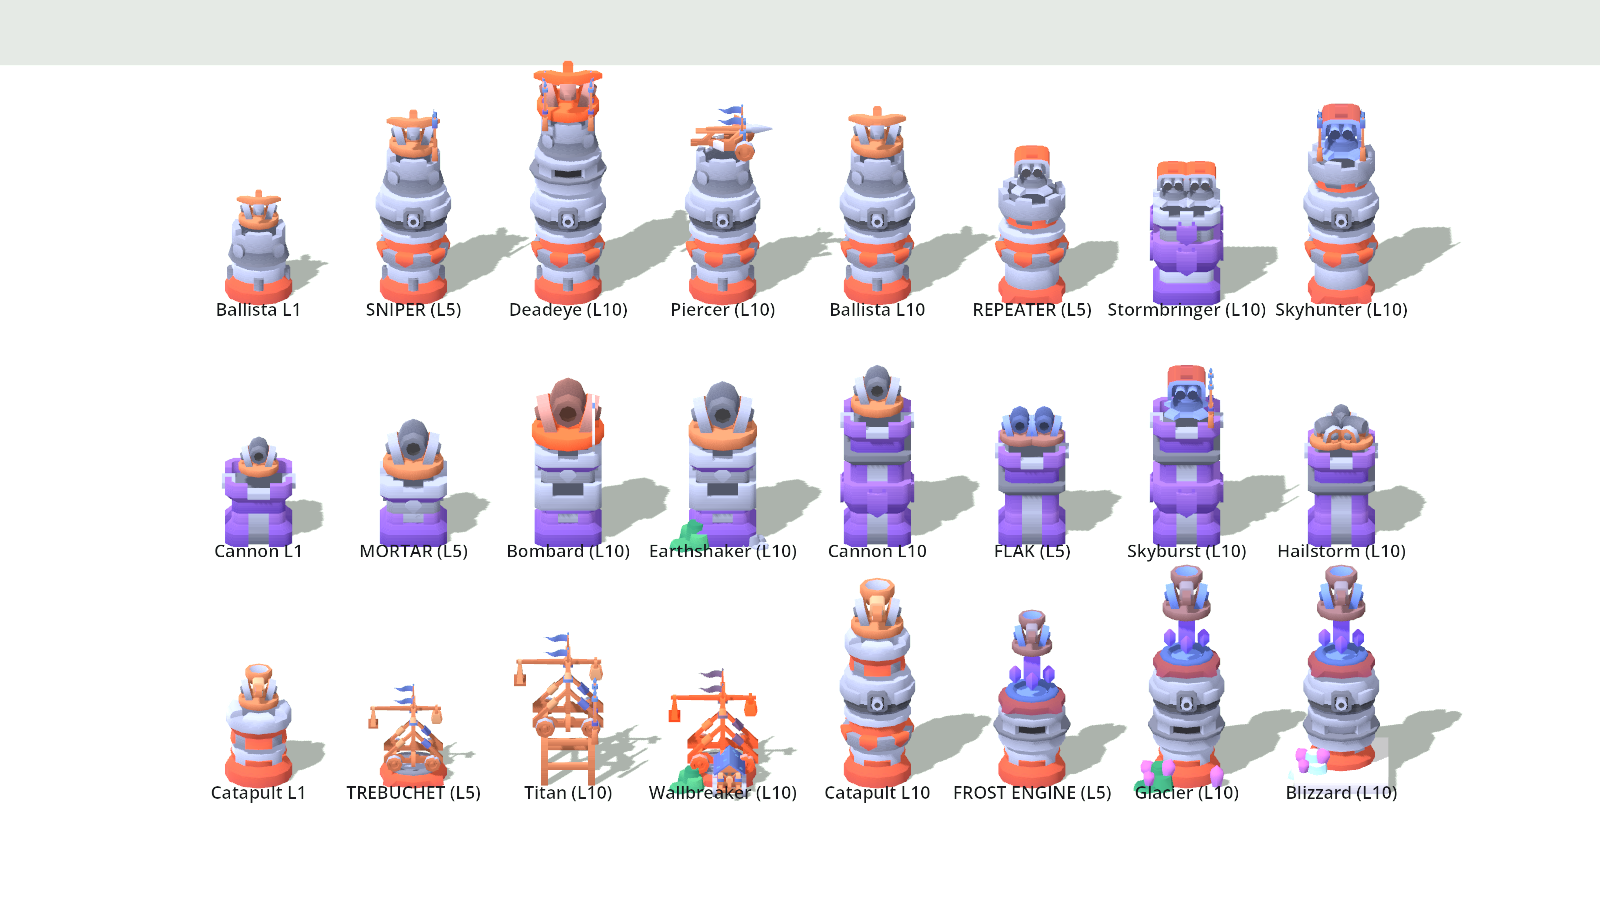
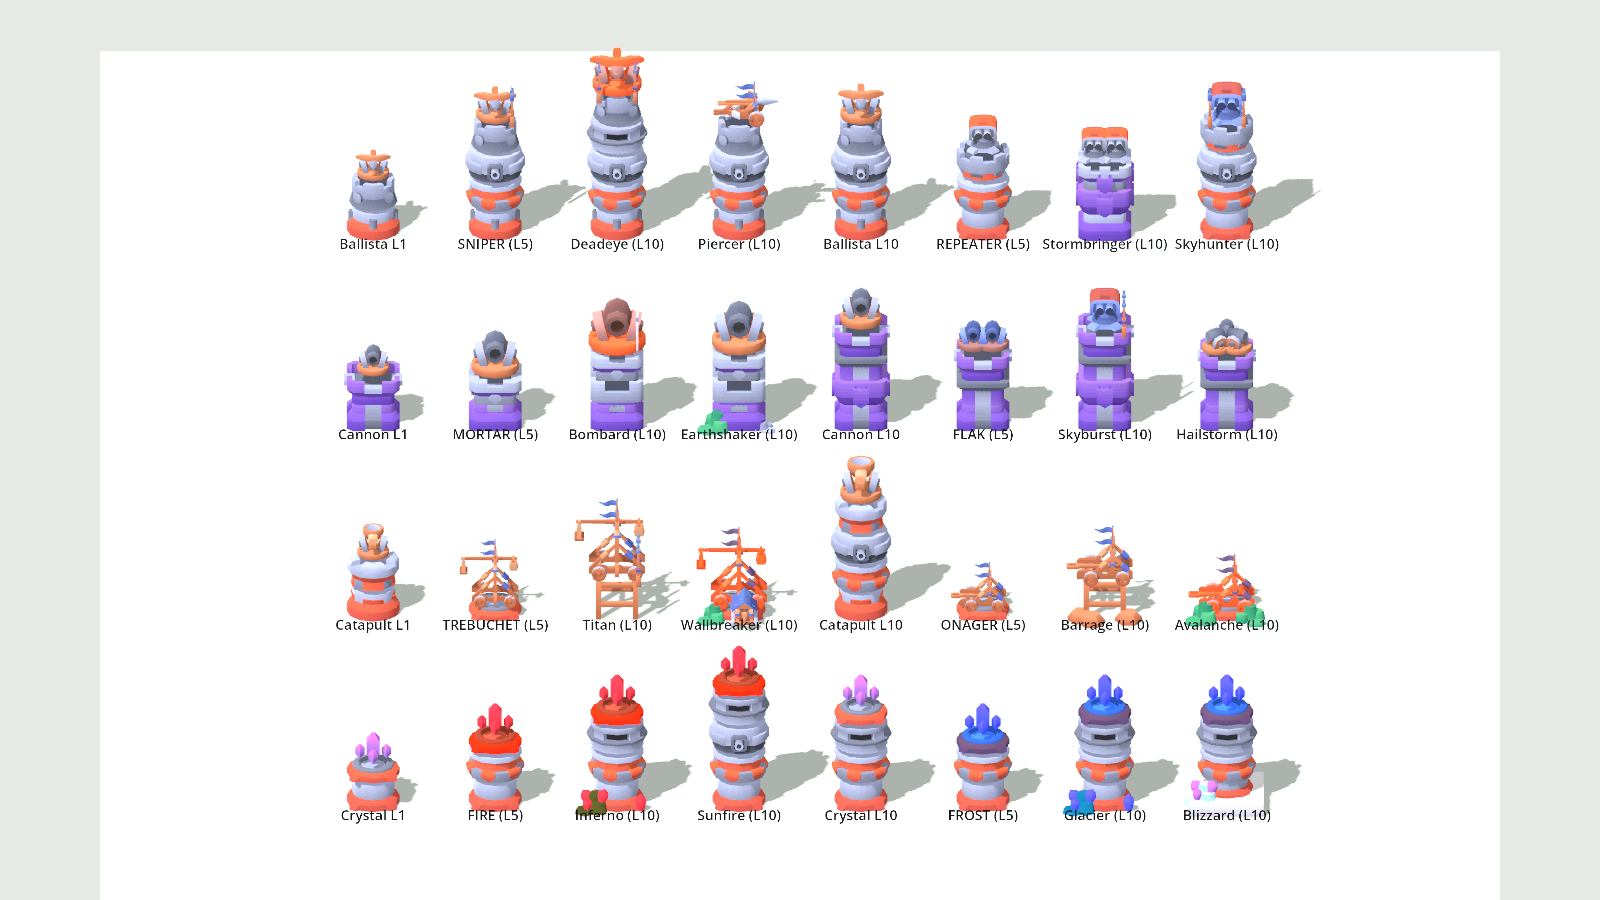
docs(design): add Crystal Tower and Onager, reshuffle upgrades
The Crystal Tower takes the elemental role (Fire or Frost attunement at level 5), so the Catapult's second branch becomes Onager (Barrage / Avalanche). Incendiary moves to the Crystal Tower, the Cannon gains Heavy Shells, and the Crystal adds Attunement. The preview sheet now shows all four towers.

diff --git a/scripts/Dev/BranchSheet.cs b/scripts/Dev/BranchSheet.cs
@@ -5,10 +5,10 @@ using static TowerDefense.Dev.SheetRenderer;
 namespace TowerDefense.Dev;
 
 // Proposed looks for the tower milestone branches: level 5 picks a branch, level 10 a sub-branch.
-// Rows per tower: [today's L1 | branch A (L5) | A1 (L10) | A2 (L10)] then [today's L10 | branch B | B1 | B2].
+// One row per tower: today's L1 | branch A (L5) | A1 | A2 (L10) | today's L10 | branch B (L5) | B1 | B2 (L10).
 public static class BranchSheet
 {
-	static readonly Color Frost = new(0.7f, 0.85f, 1.25f);
+	static readonly Color Frost = new(0.45f, 0.8f, 1.45f);
 	static readonly Color Sky = new(0.8f, 0.9f, 1.2f);
 	static readonly Color Ember = new(1.25f, 0.85f, 0.7f);
 
@@ -17,6 +17,8 @@ public static class BranchSheet
 	static Part Castle(string m, PartMode mode = PartMode.Top, float scale = 1, Vector3 offset = default, float rot = 0, Color? tint = null) =>
 		new("castle", m, mode, offset, rot, scale, tint);
 	static Entry E(string caption, string sub, params Part[] parts) => new(caption, new List<Part>(parts), sub);
+
+	static readonly Color Fire = new(1.35f, 0.55f, 0.35f);
 
 	public static List<Entry> Entries() => new()
 	{
@@ -87,15 +89,35 @@ public static class BranchSheet
 		E("Catapult L10", "today",
 			Td("tower-round-bottom-c"), Td("tower-round-middle-a"), Td("tower-round-middle-b"), Td("tower-round-top-c"),
 			Td("weapon-catapult", PartMode.Top, 1.3f)),
-		E("FROST ENGINE (L5)", "splash slow, hits air",
-			Td("tower-round-bottom-c"), Td("tower-round-middle-c"), Td("tower-round-crystals", tint: Frost), Td("weapon-catapult", PartMode.Top, 1f, tint: Frost)),
-		E("Glacier (L10)", "freezes packs",
-			Td("tower-round-bottom-c"), Td("tower-round-middle-c"), Td("tower-round-middle-b"), Td("tower-round-crystals", tint: Frost),
-			Td("weapon-catapult", PartMode.Top, 1.2f, tint: Frost),
-			Td("detail-crystal-large", PartMode.Free, 0.8f, new Vector3(-0.45f, 0, 0.35f)), Td("detail-crystal", PartMode.Free, 0.8f, new Vector3(0.45f, 0, 0.4f))),
-		E("Blizzard (L10)", "slow aura in range",
-			Td("snow-tile", PartMode.Free, 1.4f), Td("tower-round-bottom-c", PartMode.Stack, 1f, new Vector3(0, 0.2f, 0)), Td("tower-round-middle-c"), Td("tower-round-middle-b"),
-			Td("tower-round-crystals", tint: Frost), Td("weapon-catapult", PartMode.Top, 1.2f, tint: Frost),
-			Td("snow-detail-crystal-large", PartMode.Free, 0.8f, new Vector3(-0.45f, 0.2f, 0.35f))),
+		E("ONAGER (L5)", "3-boulder barrage",
+			Td("tower-round-base"), Castle("siege-catapult", PartMode.Top, 0.6f)),
+		E("Barrage (L10)", "5 boulders per volley",
+			Td("wood-structure-high", PartMode.Stack, 0.8f), Castle("siege-catapult", PartMode.Top, 0.72f),
+			Td("weapon-ammo-boulder", PartMode.Free, 1.6f, new Vector3(-0.45f, 0, 0.4f)), Td("weapon-ammo-boulder", PartMode.Free, 1.6f, new Vector3(-0.25f, 0, 0.55f)),
+			Td("weapon-ammo-boulder", PartMode.Free, 1.6f, new Vector3(0.45f, 0, 0.45f))),
+		E("Avalanche (L10)", "boulders roll along path",
+			Td("tower-round-base"), Castle("siege-catapult", PartMode.Top, 0.72f, tint: Ember),
+			Td("detail-rocks-large", PartMode.Free, 0.8f, new Vector3(-0.45f, 0, 0.4f)), Td("detail-rocks-large", PartMode.Free, 0.7f, new Vector3(0.45f, 0, 0.45f), 90)),
+
+		// ------------------------------------------------------------------ CRYSTAL (round b + crystal top) — Fire / Frost
+		E("Crystal L1", "magic bolt",
+			Td("tower-round-bottom-b"), Td("tower-round-crystals")),
+		E("FIRE (L5)", "burn, stops regen",
+			Td("tower-round-bottom-b"), Td("tower-round-middle-a"), Td("tower-round-crystals", tint: Fire)),
+		E("Inferno (L10)", "burn spreads on death",
+			Td("tower-round-bottom-b"), Td("tower-round-middle-a"), Td("tower-round-middle-c"), Td("tower-round-crystals", tint: Fire),
+			Td("detail-crystal-large", PartMode.Free, 0.8f, new Vector3(-0.45f, 0, 0.35f), tint: Fire), Td("detail-crystal", PartMode.Free, 0.8f, new Vector3(0.45f, 0, 0.4f), tint: Fire)),
+		E("Sunfire (L10)", "beam ramps on one target",
+			Td("tower-round-bottom-b"), Td("tower-round-middle-a"), Td("tower-round-middle-b"), Td("tower-round-middle-c"), Td("tower-round-crystals", tint: Fire)),
+		E("Crystal L10", "unattuned, for scale",
+			Td("tower-round-bottom-b"), Td("tower-round-middle-a"), Td("tower-round-middle-c"), Td("tower-round-crystals")),
+		E("FROST (L5)", "slow, hits air",
+			Td("tower-round-bottom-b"), Td("tower-round-middle-a"), Td("tower-round-crystals", tint: Frost)),
+		E("Glacier (L10)", "every 3rd hit freezes",
+			Td("tower-round-bottom-b"), Td("tower-round-middle-a"), Td("tower-round-middle-c"), Td("tower-round-crystals", tint: Frost),
+			Td("detail-crystal-large", PartMode.Free, 0.8f, new Vector3(-0.45f, 0, 0.35f), tint: Frost), Td("detail-crystal", PartMode.Free, 0.8f, new Vector3(0.45f, 0, 0.4f), tint: Frost)),
+		E("Blizzard (L10)", "slow aura, chilled +10%",
+			Td("snow-tile", PartMode.Free, 1.4f), Td("tower-round-bottom-b", PartMode.Stack, 1f, new Vector3(0, 0.2f, 0)), Td("tower-round-middle-a"), Td("tower-round-middle-c"),
+			Td("tower-round-crystals", tint: Frost), Td("snow-detail-crystal-large", PartMode.Free, 0.8f, new Vector3(-0.45f, 0.2f, 0.35f))),
 	};
 }

diff --git a/scripts/Dev/SheetRenderer.cs b/scripts/Dev/SheetRenderer.cs
@@ -61,7 +61,7 @@ public partial class SheetRenderer : Node3D
 		int rows = (entries.Count + cols - 1) / cols;
 		var center = new Vector3((cols - 1) * Spacing / 2, branches ? 1.5f : 0.6f, (rows - 1) * rowSpacing / 2 + 0.3f);
 		float pitchRad = Mathf.DegToRad(pitch);
-		var cam = new Camera3D { Projection = Camera3D.ProjectionType.Orthogonal, Size = branches ? (rows - 1) * rowSpacing * Mathf.Sin(pitchRad) + 6.2f : rows * Spacing * 1.25f + 1.2f, Far = 200 };
+		var cam = new Camera3D { Projection = Camera3D.ProjectionType.Orthogonal, Size = branches ? Mathf.Max((rows - 1) * rowSpacing * Mathf.Sin(pitchRad) + 6.2f, cols * Spacing / 1.75f + 0.6f) : rows * Spacing * 1.25f + 1.2f, Far = 200 };
 		AddChild(cam);
 		cam.Position = center + new Vector3(0, Mathf.Sin(pitchRad), Mathf.Cos(pitchRad)) * 40;
 		cam.LookAt(center);

diff --git a/docs/tower-branches.md b/docs/tower-branches.md
@@ -1,49 +1,87 @@
-# Tower branches (design proposal)
+# Tower branches and the Crystal Tower (design)
 
 At the level 4 → 5 milestone you pick one of two **branches**; at 9 → 10 one of two **specialisations**
-within it. 3 towers × 2 × 2 = **12 end-forms**. The milestone's ×2 / ×3 damage and cost rules stay; branches
-reshape *how* the damage is dealt. Damage per gold stays roughly flat (±15%) — each form is stronger in
-its niche and weaker outside it, never simply better.
+within it. With a fourth tower that is 4 towers × 2 × 2 = **16 end-forms**. The milestone's ×2 / ×3 damage
+and cost rules stay; branches reshape *how* the damage is dealt. Damage per gold stays roughly flat (±15%):
+each form is stronger in its niche and weaker outside it, never simply better.
 
 ![Tower branch previews](tower-branches.png)
 
-Numbers are multipliers on the unbranched tower at the same level.
+Rows: Ballista, Cannon, Catapult, Crystal. Each row: today's L1 · branch A (L5) · A1 · A2 (L10) · today's L10 ·
+branch B (L5) · B1 · B2 (L10). Numbers below are multipliers on the unbranched tower at the same level.
 
-## Ballista — all-rounder
-| Form | Level | Look | Stats | Excels / Weak |
-|---|---|---|---|---|
-| **Sniper** | 5 | Tall round tower, pennant | Damage ×2, fire rate ×0.5, range +1.2, 20% crit for ×2 | Bosses, armour (big hits) / crowds |
-| ↳ **Deadeye** | 10 | Taller, ember ballista, twin flags | Crit 35% for ×3; executes non-boss creeps under 12% HP | Elites, bosses / swarms |
-| ↳ **Piercer** | 10 | Castle siege-ballista on top | Bolts pierce a line of 3 (100 / 70 / 50%) | Lines of ground creeps / flyers spread out |
-| **Repeater** | 5 | Turret on round tower | Fire rate ×3, damage ×0.4, range −0.2; Slowing/Splitting proc per hit | Flyers, fast creeps, slow uptime / armour (tiny hits) |
-| ↳ **Stormbringer** | 10 | Square tower, twin turrets | Fires at 2 targets at once | Waves of small creeps / armour |
-| ↳ **Skyhunter** | 10 | Blue turret, two pennants | ×2 vs flyers, +0.8 range vs flyers | Air themes / ground bosses |
+## Roles
+| Tower | Role | Hits air | Bonus |
+|---|---|---|---|
+| Ballista | All-rounder, anti-air | Yes | — |
+| Cannon | Crowds, armour | Yes | ×1.5 vs armoured |
+| Catapult | Bosses, tanks, siege | No (Scatter Shot) | ×1.75 vs bosses & tanks |
+| **Crystal** (new) | Elements: control or burn | Yes | Ignores half of armour |
 
-## Cannon — crowds and armour
-| Form | Level | Look | Stats | Excels / Weak |
-|---|---|---|---|---|
-| **Mortar** | 5 | Squat tower, oversized cannon | Splash ×1.6, damage ×1.5, fire rate ×0.6, range +0.8, **ground only** | Packs, armour / flyers |
-| ↳ **Bombard** | 10 | Ember cannon, banner | Shells leave burning ground for 2 s (25% of the hit per second) | Swarms, regen / fast creeps |
-| ↳ **Earthshaker** | 10 | Rubble around the base | Stuns 0.6 s (bosses: 30% slow instead), 4 s per-creep cooldown | Controlling packs / bosses |
-| **Flak** | 5 | Twin blue cannons | ×1.8 vs flyers, fire rate ×1.3, ground damage ×0.8 | Air waves / armoured ground |
-| ↳ **Skyburst** | 10 | Blue turret, wide flag | ×2.5 vs flyers, splash ×2 against air | Flying swarms / ground |
-| ↳ **Hailstorm** | 10 | Three cannons | 3 shells per volley at 3 targets (60% each) | Mixed waves / lone bosses |
+## Ballista
+| Form | Level | Stats | Excels / Weak |
+|---|---|---|---|
+| **Sniper** | 5 | Damage ×2, fire rate ×0.5, range +1.2, 20% crit for ×2 | Bosses, armour / crowds |
+| ↳ **Deadeye** | 10 | Crit 35% for ×3; executes non-boss creeps under 12% HP | Elites, bosses / swarms |
+| ↳ **Piercer** | 10 | Bolts pierce a line of 3 (100 / 70 / 50%) | Lines of ground creeps / spread-out flyers |
+| **Repeater** | 5 | Fire rate ×3, damage ×0.4, range −0.2; Slowing/Splitting proc per hit | Flyers, fast creeps / armour |
+| ↳ **Stormbringer** | 10 | Fires at 2 targets at once | Waves of small creeps / armour |
+| ↳ **Skyhunter** | 10 | ×2 vs flyers, +0.8 range vs flyers | Air themes / ground bosses |
 
-## Catapult — bosses and tanks
-| Form | Level | Look | Stats | Excels / Weak |
-|---|---|---|---|---|
-| **Trebuchet** | 5 | Castle trebuchet on a base | Siege bonus ×1.75 → ×2.5, range +1.5, fire rate ×0.8 | Bosses, tanks / flyers, fast |
-| ↳ **Titan** | 10 | Trebuchet on scaffolding, flag | +2% of target's max HP per hit vs bosses & tanks | Late bosses / everything small |
-| ↳ **Wallbreaker** | 10 | Ember trebuchet, ram, rubble | Hits shred 20% armour for 5 s (stacks to 60%) | Armoured waves, helps all towers / flyers |
-| **Frost Engine** | 5 | Blue crystal tower | Splash slows 25% for 2 s (bosses half), hits flyers at 60%, damage ×0.7, loses siege bonus | Control, air coverage / raw damage |
-| ↳ **Glacier** | 10 | Taller, crystals at the base | Every 3rd shot freezes 1 s (bosses: 40% slow) | Packs, fast creeps / bosses |
-| ↳ **Blizzard** | 10 | On snow, ice crystals | 20% slow aura in range + chilled creeps take +10% damage | Supporting other towers / alone |
+## Cannon
+| Form | Level | Stats | Excels / Weak |
+|---|---|---|---|
+| **Mortar** | 5 | Splash ×1.6, damage ×1.5, fire rate ×0.6, range +0.8, ground only | Packs, armour / flyers |
+| ↳ **Bombard** | 10 | Shells leave burning ground for 2 s (25% of the hit per second) | Swarms, regen / fast creeps |
+| ↳ **Earthshaker** | 10 | Stuns 0.6 s (bosses: 30% slow instead), 4 s per-creep cooldown | Controlling packs / bosses |
+| **Flak** | 5 | ×1.8 vs flyers, fire rate ×1.3, ground damage ×0.8 | Air waves / armoured ground |
+| ↳ **Skyburst** | 10 | ×2.5 vs flyers, splash ×2 against air | Flying swarms / ground |
+| ↳ **Hailstorm** | 10 | 3 shells per volley at 3 targets (60% each) | Mixed waves / lone bosses |
+
+## Catapult
+| Form | Level | Stats | Excels / Weak |
+|---|---|---|---|
+| **Trebuchet** | 5 | Siege bonus ×1.75 → ×2.5, range +1.5, fire rate ×0.8 | Bosses, tanks / flyers, fast |
+| ↳ **Titan** | 10 | +2% of the target's max HP per hit vs bosses & tanks | Late bosses / small creeps |
+| ↳ **Wallbreaker** | 10 | Hits shred 20% armour for 5 s (stacks to 60%) — helps every tower | Armoured waves / flyers |
+| **Onager** | 5 | 3 boulders per volley, spread along the path (45% each) | Packs on the ground / bosses |
+| ↳ **Barrage** | 10 | 5 boulders per volley | Swarms / flyers |
+| ↳ **Avalanche** | 10 | Boulders roll 2 tiles along the path after landing, hitting creeps behind | Long lines of creeps / sparse waves |
+
+## Crystal Tower (new, 1,500g)
+Magic bolts that ignore half of armour and hit flyers, medium range, moderate damage. The level-5 choice
+**attunes** it to an element; the crystal glows red or ice-blue.
+
+| Form | Level | Stats | Excels / Weak |
+|---|---|---|---|
+| **Fire** | 5 | Hits burn for 40% of the hit per second (3 s); burning stops regeneration | Regen, swarms, armour / fast creeps |
+| ↳ **Inferno** | 10 | When a burning creep dies, the fire spreads to creeps within 1.2 tiles | Dense waves / lone bosses |
+| ↳ **Sunfire** | 10 | Focused beam: damage ramps +50% per second on the same target, up to ×3 | Bosses / swarms |
+| **Frost** | 5 | Hits slow 30% for 2 s (bosses half) | Fast creeps, flyers, supporting / raw damage |
+| ↳ **Glacier** | 10 | Every 3rd hit freezes 1 s (bosses: 40% slow instead) | Packs, fast creeps / bosses |
+| ↳ **Blizzard** | 10 | 20% slow aura in range; chilled creeps take +10% damage from everything | Supporting other towers / alone |
+
+## Upgrades menu: two per tower
+| Tower | Upgrades |
+|---|---|
+| Ballista | Slowing Bolts · Splitting Bolts |
+| Cannon | Shrapnel · **Heavy Shells** (new: armour bonus ×1.5 → ×1.75 / 2.0 / 2.25) |
+| Catapult | Heavy Boulders · Scatter Shot |
+| Crystal | **Incendiary** (moved from the Cannon: crystal hits burn) · **Attunement** (new: +20 / 40 / 60% element strength) |
+| Economy | War Chest |
+
+Slowing Bolts stays on the Ballista: a single-target slow is different from Frost's area control.
 
 ## How it plays
-- Upgrading 4 → 5 or 9 → 10 opens a **choice** with both forms' previews and stats; the tower rebuilds into the chosen look.
+- Upgrading 4 → 5 or 9 → 10 on a branching tower offers both forms side by side with stats; the tower rebuilds into the chosen look.
 - The choice is permanent for that tower (sell to change). Research still applies (e.g. Slowing on a Repeater).
-- The AI picks branches with its three-wave look-ahead, the same way it picks towers today.
+- The AI picks branches with its three-wave look-ahead, the same way it picks towers.
 
-## Assets used
-All from kits already in the repo: Tower Defense Kit (turret, crystals, rocks, snow tiles, wood scaffolding) and
-Castle Kit (siege ballista, trebuchet, ram, flags). Preview rendered with `-- --sheet branches <out.png>`.
+## Build stages
+1. **Crystal Tower** with the Fire / Frost choice at level 5 — also builds the branch-choice system, the
+   upgrade reshuffle (Incendiary → Crystal, Heavy Shells, Attunement), AI and UI support.
+2. All other level-5 branches and level-10 specialisations, then benchmarks and balance.
+
+## Assets
+All from kits in the repo: Tower Defense Kit (crystals, turret, rocks, boulders, snow tiles, scaffolding) and
+Castle Kit (siege ballista, catapult, trebuchet, ram, flags). Previews: `-- --sheet branches <out.png>`.
